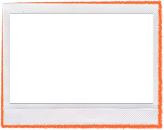
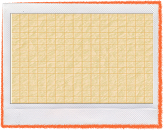
fix uu

diff --git a/src/contexts/video-player-provider.tsx b/src/contexts/video-player-provider.tsx
@@ -4,7 +4,7 @@ import { VideoPlayerContext } from ".";
 
 import { PausedActionName, type Scene } from "../types/chapter";
 import { useUserContext } from "../features/user/context";
-import { useSubmitHotspot } from "../features/user/hooks";
+import { useSubmitHotspot, useCollectedHotspots } from "../features/user/hooks";
 import {
   getLocalParam,
   removeLocalParam,
@@ -71,6 +71,8 @@ export interface VideoPlayerContextType {
   ) => void;
   isEndingScene: boolean;
   setIsEndingScene: React.Dispatch<React.SetStateAction<boolean>>;
+  isVipModalOpen: boolean;
+  setIsVipModalOpen: React.Dispatch<React.SetStateAction<boolean>>;
 }
 
 export const VideoPlayerProvider = ({
@@ -79,7 +81,7 @@ export const VideoPlayerProvider = ({
   children: React.ReactNode;
 }) => {
   const { api, ready } = useVideoPlayer();
-  const { chapter: data, updateSceneStatus } = useUserContext();
+  const { chapter: data, updateSceneStatus, userInfo } = useUserContext();
   const { mutate: submitHotspot } = useSubmitHotspot();
   const { showToast } = useToast();
 
@@ -120,6 +122,39 @@ export const VideoPlayerProvider = ({
   });
 
   const [isEndingScene, setIsEndingScene] = React.useState(false);
+  const [isVipModalOpen, setIsVipModalOpen] = React.useState(false);
+  const lastSyncedSceneId = React.useRef<string | null>(null);
+  const { data: collectedHotspotsData } = useCollectedHotspots(
+    currentSceneId || ""
+  );
+
+  React.useEffect(() => {
+    const collectedHotspots = collectedHotspotsData?.data?.collectedHotspots;
+    if (!collectedHotspots || !data.scenes || !currentSceneId) return;
+
+    if (lastSyncedSceneId.current === currentSceneId) return;
+
+    const transformedItems: Record<string, any> = {};
+    const scene = data.scenes[currentSceneId];
+
+    collectedHotspots.forEach((item: any) => {
+      const hotspot = scene?.hotspots?.find((h: any) => h.id === item.hotspotId);
+      const minCollectionItems =
+        hotspot?.minCollectionItems || hotspot?.items?.length || 0;
+
+      transformedItems[item.hotspotId] = {
+        collectionIds: item.collectedHotspotItemIds.map(
+          (itemId: string) => `${item.hotspotId}_item_${itemId}`
+        ),
+        minCollectionItems,
+        isCompleted: item.collectedHotspotItemIds.length >= minCollectionItems,
+      };
+    });
+
+    setCollectionItems(transformedItems);
+    api?.setCollectionItems?.(transformedItems);
+    lastSyncedSceneId.current = currentSceneId;
+  }, [collectedHotspotsData, currentSceneId, data.scenes, api]);
 
   const [rewardCollectionState, setRewardCollectionState] = React.useState<{
     isOpen: boolean;
@@ -502,8 +537,12 @@ export const VideoPlayerProvider = ({
           });
         }
       }
-
-      setCurrentSceneId(nextSceneId);
+      const nextScene = data.scenes[nextSceneId];
+      const isUserVip = userInfo?.vipinfo?.isvip === 1;
+      if (nextScene.isVip && !isUserVip) {
+        return setIsVipModalOpen(true);
+      }
+      onSetCurrentSceneId(nextSceneId);
       setPauseType(null);
       setCurrentStatus(null);
     },
@@ -550,7 +589,15 @@ export const VideoPlayerProvider = ({
         //   setType("intro");
         // }, 3000);
       } else {
-        onSetCurrentSceneId(scene.targetSceneId);
+        const nextSceneId = (scene as any).targetSceneId;
+        if (nextSceneId) {
+          const nextScene = data.scenes[nextSceneId];
+          const isUserVip = userInfo?.vipinfo?.isvip === 1;
+          if (nextScene?.isVip && !isUserVip) {
+            return setIsVipModalOpen(true);
+          }
+        }
+        onSetCurrentSceneId(nextSceneId);
       }
     },
     [
@@ -760,6 +807,8 @@ export const VideoPlayerProvider = ({
     showRelationshipPoint,
     isEndingScene,
     setIsEndingScene,
+    isVipModalOpen,
+    setIsVipModalOpen,
   };
   return (
     <VideoPlayerContext.Provider value={value}>

diff --git a/src/features/user/context/user-provider.tsx b/src/features/user/context/user-provider.tsx
@@ -30,6 +30,8 @@ export interface UserContextType {
   ) => void;
   collectedRewards?: Record<string, CollectedRewardCharacter>;
   refetchCollectedRewards: () => void;
+  refetchChapter: () => void;
+  userInfo: Record<string, any>;
 }
 
 export const UserProvider = ({ children }: { children: React.ReactNode }) => {
@@ -37,6 +39,7 @@ export const UserProvider = ({ children }: { children: React.ReactNode }) => {
   const { mutate: updateStatus } = useUpdateStatus();
 
   const [loading, setLoading] = React.useState<boolean>(false);
+  const [userInfo, setUserInfo] = React.useState<Record<string, any>>({});
 
   const {
     chapterId: chapterIdFromUrl,
@@ -58,7 +61,7 @@ export const UserProvider = ({ children }: { children: React.ReactNode }) => {
     };
   }, []);
 
-  const { data: chapter, isLoading: isChapterLoading } = useChapter(
+  const { data: chapter, isLoading: isChapterLoading, refetch: refetchChapter } = useChapter(
     projectIdFromUrl,
     chapterIdFromUrl
   );
@@ -166,6 +169,7 @@ export const UserProvider = ({ children }: { children: React.ReactNode }) => {
       "UserProvider"
     );
     const mgUserInfoObject = JSON.parse(mgUserInfo || "{}");
+    setUserInfo(mgUserInfoObject);
     saveLocalParams({
       ticket: mgUserInfoObject?.ticket,
     });
@@ -228,20 +232,10 @@ export const UserProvider = ({ children }: { children: React.ReactNode }) => {
   React.useEffect(() => {
     if (!mgApi) {
       logInfo(
-        "UserProvider - mgApi is not available",
-        undefined,
-        "UserProvider"
+        "UserProvider - mgApi is not available"
       );
       return;
     }
-
-    logInfo(
-      "UserProvider - mgApi initialized, setting up login callback",
-      {
-        hasLoginMethod: !!mgApi.login,
-      },
-      "UserProvider"
-    );
 
     mgApi.login?.(handleGetToken);
   }, [mgApi, handleGetToken]);
@@ -257,6 +251,8 @@ export const UserProvider = ({ children }: { children: React.ReactNode }) => {
       updateSceneStatus,
       collectedRewards,
       refetchCollectedRewards,
+      refetchChapter,
+      userInfo
     }),
     [
       chapterMapped,
@@ -266,6 +262,8 @@ export const UserProvider = ({ children }: { children: React.ReactNode }) => {
       updateSceneStatus,
       collectedRewards,
       refetchCollectedRewards,
+      refetchChapter,
+      userInfo
     ]
   );
 

diff --git a/src/feature-v2/components/ui/dialog-vote.tsx b/src/feature-v2/components/ui/dialog-vote.tsx
@@ -28,10 +28,10 @@ const DialogVote = ({
   },
   onVote,
 }: DialogVoteProps) => {
-  const { chapter } = useUserContext();
-  const { voteCharacter, isVoting } = useRankContext();
+  const { chapter, refetchChapter } = useUserContext();
+  const { voteCharacter, isVoting, refetchLeaderboard } = useRankContext();
   const availablePoints = chapter?.progress?.points || 0;
-  
+
   // Lấy chapterId từ URL params hoặc từ chapter
   const projectId = React.useMemo(() => {
     const params = new URLSearchParams(window.location.search);
@@ -69,6 +69,8 @@ const DialogVote = ({
     setIsSuccessOpen(false);
     onVote?.();
     onClose();
+    refetchChapter()
+    refetchLeaderboard()
   };
 
   const handleVoteClick = async () => {
@@ -164,9 +166,9 @@ const DialogVote = ({
                 onChange={handleChangeVote}
               />
 
-              <Button 
-                label={isVoting ? "Đang bình chọn..." : "Bình chọn"} 
-                onClick={handleVoteClick} 
+              <Button
+                label={isVoting ? "Đang bình chọn..." : "Bình chọn"}
+                onClick={handleVoteClick}
                 size="small"
                 disabled={isVoting}
               />

diff --git a/src/feature-v2/AppV2.tsx b/src/feature-v2/AppV2.tsx
@@ -67,6 +67,8 @@ function AppV2Content() {
     clips,
     isEndingScene,
     setIsEndingScene,
+    isVipModalOpen,
+    setIsVipModalOpen,
   } = useVideoPlayerContext();
 
   const [dialogName, setDialogName] = React.useState<string | null>(null);
@@ -207,6 +209,22 @@ function AppV2Content() {
       />
 
       {isGiftSelectionOpen && <GiftSelection />}
+
+      {/* SVIP Dialog */}
+      <GameModal
+        isOpen={isVipModalOpen}
+        onClose={() => {
+          setIsVipModalOpen(false);
+          onPlay();
+        }}
+        onConfirm={() => {
+          setIsVipModalOpen(false);
+          window.open("https://club.glb.mangoplus.vn/intelmgtv/pay_vn/index.html?product_level=6", "_blank");
+          onPlay();
+        }}
+        title="Đăng ký thành viên SVIP"
+        message="Để trải nghiệm toàn bộ nội dung và cơ hội nhận quà độc quyền từ chương trình SVIP"
+      />
 
       {/* Dialog Info */}
       <DialogInfo

diff --git a/src/features/user/apis/index.ts b/src/features/user/apis/index.ts
@@ -273,6 +273,15 @@ export interface CollectedRewardsResponse {
   characters: CollectedRewardCharacter[];
 }
 
+export interface CollectedHotspot {
+  hotspotId: string;
+  collectedHotspotItemIds: string[];
+}
+
+export interface CollectedHotspotsResponse {
+  collectedHotspots: CollectedHotspot[];
+}
+
 export const getUserProgress = async (queryParams: Record<string, string>) => {
   const params = new URLSearchParams(queryParams);
 
@@ -385,6 +394,17 @@ export const getCollectedRewards = async (projectId?: string) => {
 
   return response;
   // return mockCollectedRewards;
+};
+
+export const getCollectedHotspots = async (sceneId: string) => {
+  const response = await apiClientVideoProgress.get(
+    `/interactive-scene/hotspot-collected?sceneId=${sceneId}`,
+    {
+      "X-Ticket": getLocalParam("ticket") || "",
+    }
+  );
+
+  return response as ApiResponse<CollectedHotspotsResponse>;
 };
 
 // const mockCollectedRewards = {

diff --git a/src/feature-v2/pages/journal/frame-story.tsx b/src/feature-v2/pages/journal/frame-story.tsx
@@ -18,12 +18,18 @@ const FramedStoryline = ({
         src={bgImg}
         alt="Frame"
         className="relative block z-2 pointer-events-none w-full h-full"
+        style={{
+          backgroundImage: `url(${bgImg})`,
+          backgroundSize: "cover",
+          backgroundPosition: "center",
+          backgroundRepeat: "no-repeat",
+        }}
       />
 
       <img
-        src={info?.avatar || "https://picsum.photos/200/120"}
+        src={info?.avatar || ""}
         alt={info?.name}
-        className="absolute z-1 top-[7.5%] left-[4%] w-[91%] h-[85%]"
+        className="absolute z-1 top-[7.5%] left-1/2 -translate-x-1/2 w-auto h-[74%] object-contain"
       />
       <div className="absolute z-10 bottom-1 left-0 w-full flex items-center justify-center">
         <p className="text-xs">{info?.name}</p>

diff --git a/src/feature-v2/pages/rank/rank-layout.tsx b/src/feature-v2/pages/rank/rank-layout.tsx
@@ -22,7 +22,7 @@ export default function RankLayout() {
       style={{ backgroundImage: "url('/images/rank-bg.png')" }}
     >
       {/* LEFT SIDE: Featured */}
-      <div className="w-[40%] relative le -rotate-6">
+      <div className="w-[40%] relative -rotate-6">
         <FramedStoryline
           className="w-[234px] h-[184px] lg:w-[281px] lg:h-[221px] text-[#26396C] relative z-20"
           info={{
@@ -125,7 +125,7 @@ export default function RankLayout() {
                         alt="heart"
                         className="w-4 h-4 lg:w-[19.2px] lg:h-[19.2px]"
                       />{" "}
-                      {user.totalVotes || 0}
+                      {user.totalPoints || 0}
                     </span>
                   </div>
                 </div>

diff --git a/src/feature-v2/pages/chapter-flow/context/flow-chart-provider.tsx b/src/feature-v2/pages/chapter-flow/context/flow-chart-provider.tsx
@@ -16,7 +16,7 @@ export const FlowChartContextProvider = ({
 }: {
   children: React.ReactNode;
 }) => {
-  const { chapter: data } = useUserContext();
+  const { chapter: data, userInfo } = useUserContext();
   // const isPreview = React.useMemo(() => {
   //   const params = new URLSearchParams(window.location.search);
   //   const isPreview = params.get("isPreview");
@@ -190,7 +190,9 @@ export const FlowChartContextProvider = ({
       addNode(sceneId, {
         ...scene,
       });
-      if ((scene as any).isVip) return;
+      const isUserVip = userInfo?.vipinfo?.isvip === 1;
+      console.log("isUserVip", isUserVip);
+      // if ((scene as any).isVip) return;
 
       if (visitedScenes.has(sceneId)) return;
       visitedScenes.add(sceneId);

diff --git a/src/features/user/hooks/index.ts b/src/features/user/hooks/index.ts
@@ -8,6 +8,7 @@ import {
   updateStatus,
   getCharacters,
   getCollectedRewards,
+  getCollectedHotspots,
   resetProgress,
   submitHotspot,
 } from "../apis";
@@ -222,4 +223,16 @@ export const useCollectedRewards = (projectId?: string) => {
     error,
     refetch,
   };
+};
+
+export const useCollectedHotspots = (sceneId: string) => {
+  return useQuery({
+    queryKey: ["collected-hotspots", sceneId],
+    queryFn: () => getCollectedHotspots(sceneId),
+    enabled: !!sceneId,
+    staleTime: Infinity,
+    gcTime: Infinity,
+    refetchOnWindowFocus: false,
+    refetchOnReconnect: false,
+  });
 };

diff --git a/src/feature-v2/pages/home.tsx b/src/feature-v2/pages/home.tsx
@@ -124,7 +124,7 @@ export default function Home() {
         alt="home-bg"
         className="absolute top-8 left-[50%] translate-x-[-50%] w-[263px] h-[120px] lg:w-[340px] lg:h-[144px] object-cover"
       />
-      <div className="flex flex-col h-full justify-center items-center gap-4 w-fit pl-2">
+      <div className="flex flex-col h-full justify-center items-center gap-4 w-fit pl-2 relative z-100">
         <div
           style={{
             transform: `translateY(${activeShakeIndex === 0 ? shakeOffset : 0

diff --git a/src/types/chapter.ts b/src/types/chapter.ts
@@ -4,6 +4,7 @@ import type { UserProgress } from "./user";
 export interface BranchOption {
   id: string;
   text: string;
+  isVip?: boolean;
   targetSceneId: string; // ID của scene sẽ chuyển đến
 }
 
@@ -43,6 +44,7 @@ export interface Scene {
   targetSceneId: string;
   hotspots?: Hotspot[];
   endingScene?: boolean;
+  isVip?: boolean;
   points?: number;
   branch?: {
     countdown: number;
